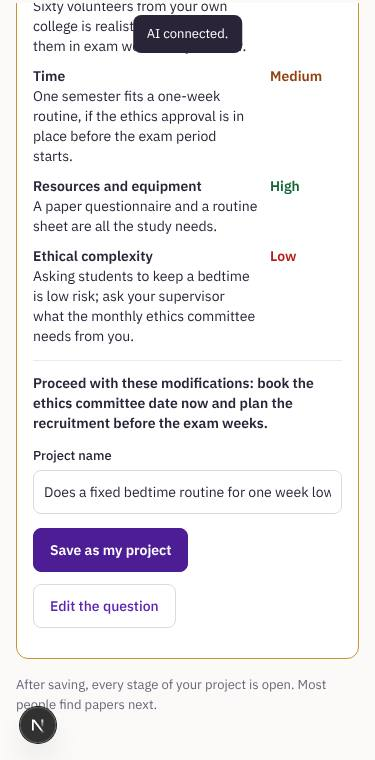
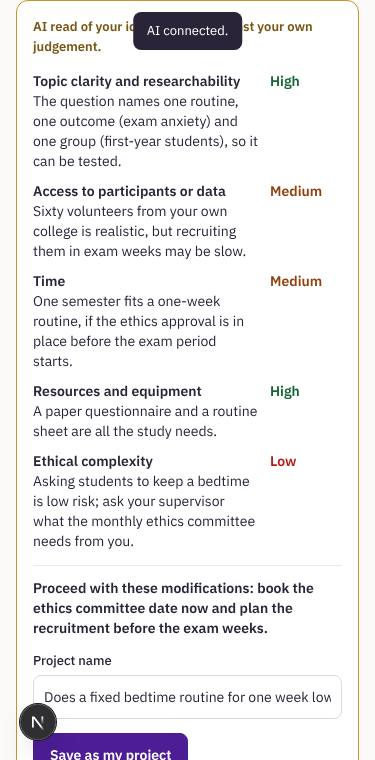
fix(web): bring the feedback into view only when it is out of sight
On a wide screen the read lands beside the form, already in view; scrolling to
the save slid the sticky header over the field line (QA S1-01: two controls on
top of each other). On a phone, where the read lands below the form, the page
now scrolls to the read's top. The walk's screenshots are retaken.

Claude-Session: https://claude.ai/code/session_01SsRxFkNhLRvZ9LjgPQ4gEE

diff --git a/apps/web/components/frame/FirstRun.tsx b/apps/web/components/frame/FirstRun.tsx
@@ -45,7 +45,7 @@ export function FirstRun({ moveDocId }: { moveDocId?: string }) {
   // Set once the project exists, so a retry after a later step failed never creates a second one.
   const [made, setMade] = useState<string | null>(null);
   const topicRef = useRef<HTMLTextAreaElement>(null);
-  const saveBtnRef = useRef<HTMLButtonElement>(null);
+  const asideRef = useRef<HTMLElement>(null);
   useEffect(() => { saveRef.current = () => { void save(); }; });
   // When the first check began: its AI use is logged with no project (there is none yet), and the save claims it for the new one.
   const firstCheckAt = useRef<number | null>(null);
@@ -54,8 +54,12 @@ export function FirstRun({ moveDocId }: { moveDocId?: string }) {
     const r = await check(intake, () => { firstCheckAt.current ??= Date.now(); });
     if (r) {
       setRead(r);
-      // The next step is the save under the read: brought into view (on a phone, and below a long read, it is out of sight).
-      requestAnimationFrame(() => saveBtnRef.current?.scrollIntoView?.({ block: "center", behavior: "smooth" }));
+      // On a phone the read lands below the form, out of sight: it is brought into view, its top first (the read, then the name and the save under it).
+      // Beside the form (a wider screen) it is already in view, and nothing moves.
+      requestAnimationFrame(() => {
+        const el = asideRef.current;
+        if (el && el.getBoundingClientRect().top > window.innerHeight * 0.6) el.scrollIntoView?.({ block: "start", behavior: "smooth" });
+      });
     }
   }
 
@@ -106,7 +110,7 @@ export function FirstRun({ moveDocId }: { moveDocId?: string }) {
       <div className="ai-read-acts">
         {/* Making the project takes several seconds on the live site: the button and a status line say so, rather than the button only dimming (O3).
             Before a read it is the screen's second way on, "Save without feedback"; under a read it is the one next step. */}
-        <Button ref={saveBtnRef} variant={read ? "primary" : "ghost"} disabled={busy || checking} aria-busy={busy || undefined} data-testid="idea-save" onClick={() => { void save(); }}>{t(busy ? "idea_save_busy" : read ? "idea_save_btn" : "idea_save_plain_btn")}</Button>
+        <Button variant={read ? "primary" : "ghost"} disabled={busy || checking} aria-busy={busy || undefined} data-testid="idea-save" onClick={() => { void save(); }}>{t(busy ? "idea_save_busy" : read ? "idea_save_btn" : "idea_save_plain_btn")}</Button>
         {read && <Button variant="ghost" data-testid="idea-edit" onClick={() => topicRef.current?.focus()}>{t("idea_edit_btn")}</Button>}
       </div>
       <p className="idea-note" role="status" data-testid="idea-save-progress">{busy ? t("idea_save_busy_note") : ""}</p>
@@ -119,7 +123,7 @@ export function FirstRun({ moveDocId }: { moveDocId?: string }) {
         {moveDocId && <p className="place-note" data-testid="start-move-note">{t("start_move_note")}</p>}
         <IdeaForm intake={intake} onEdit={(key, v) => setIntake((prev) => ({ ...prev, [key]: v }))} waiting={busy} opening={false} busy={checking} onCheck={() => void run()} topicRef={topicRef} level={1} again={read !== null} />
       </div>
-      <aside className="idea-aside">
+      <aside className="idea-aside" ref={asideRef}>
         {read ? <IdeaReadPanel read={read}>{saveBlock}</IdeaReadPanel> : (
           <div className="idea-save-plain">
             <p className="idea-note">{t("idea_save_unchecked")}</p>
